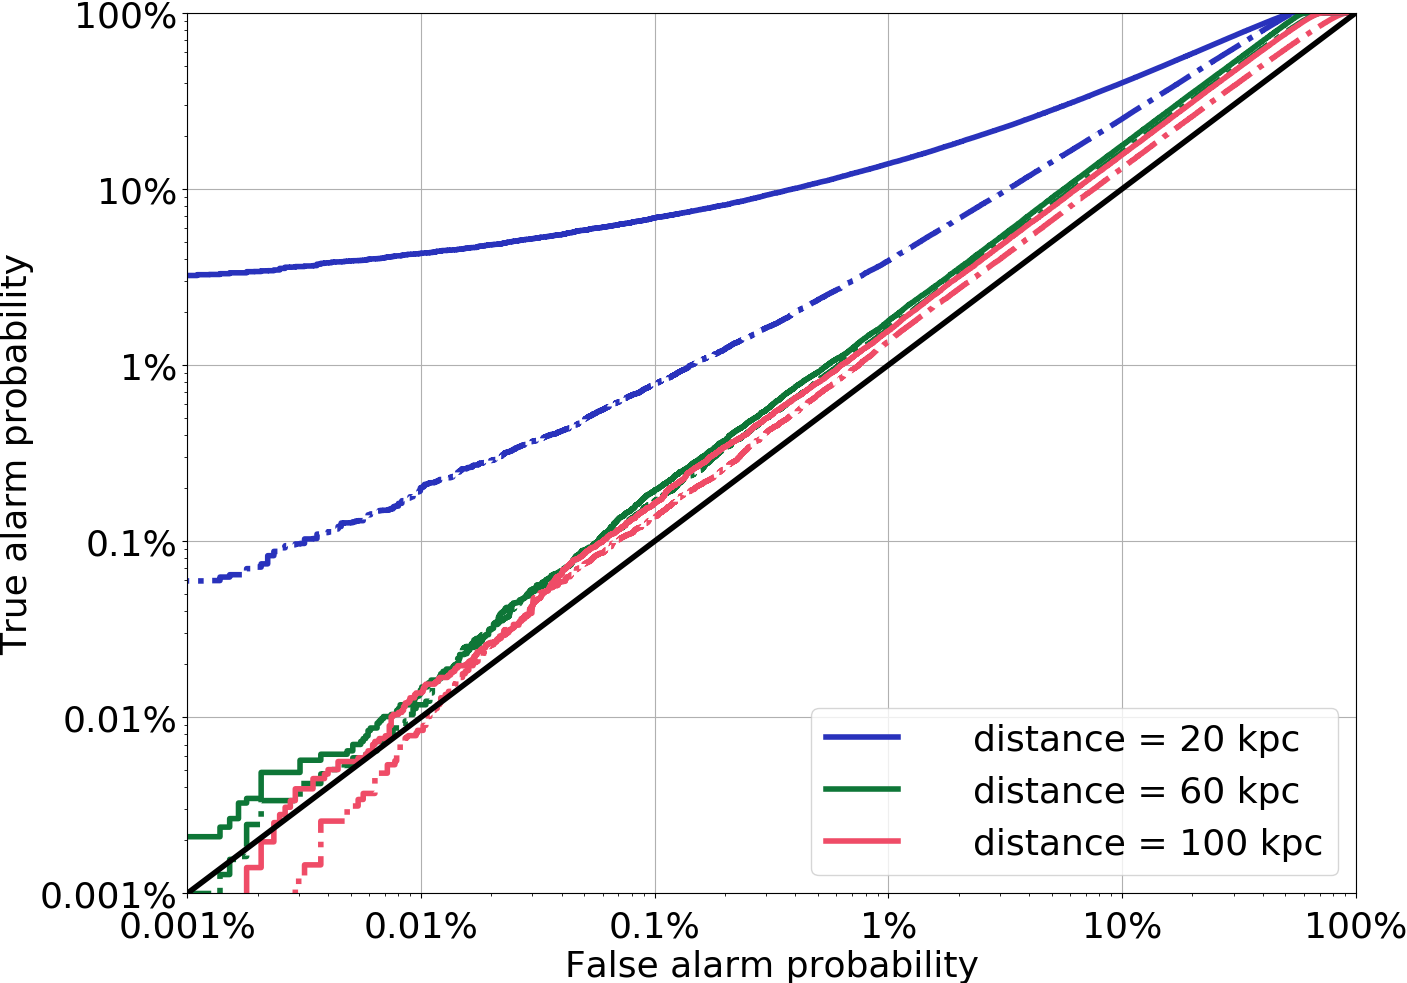
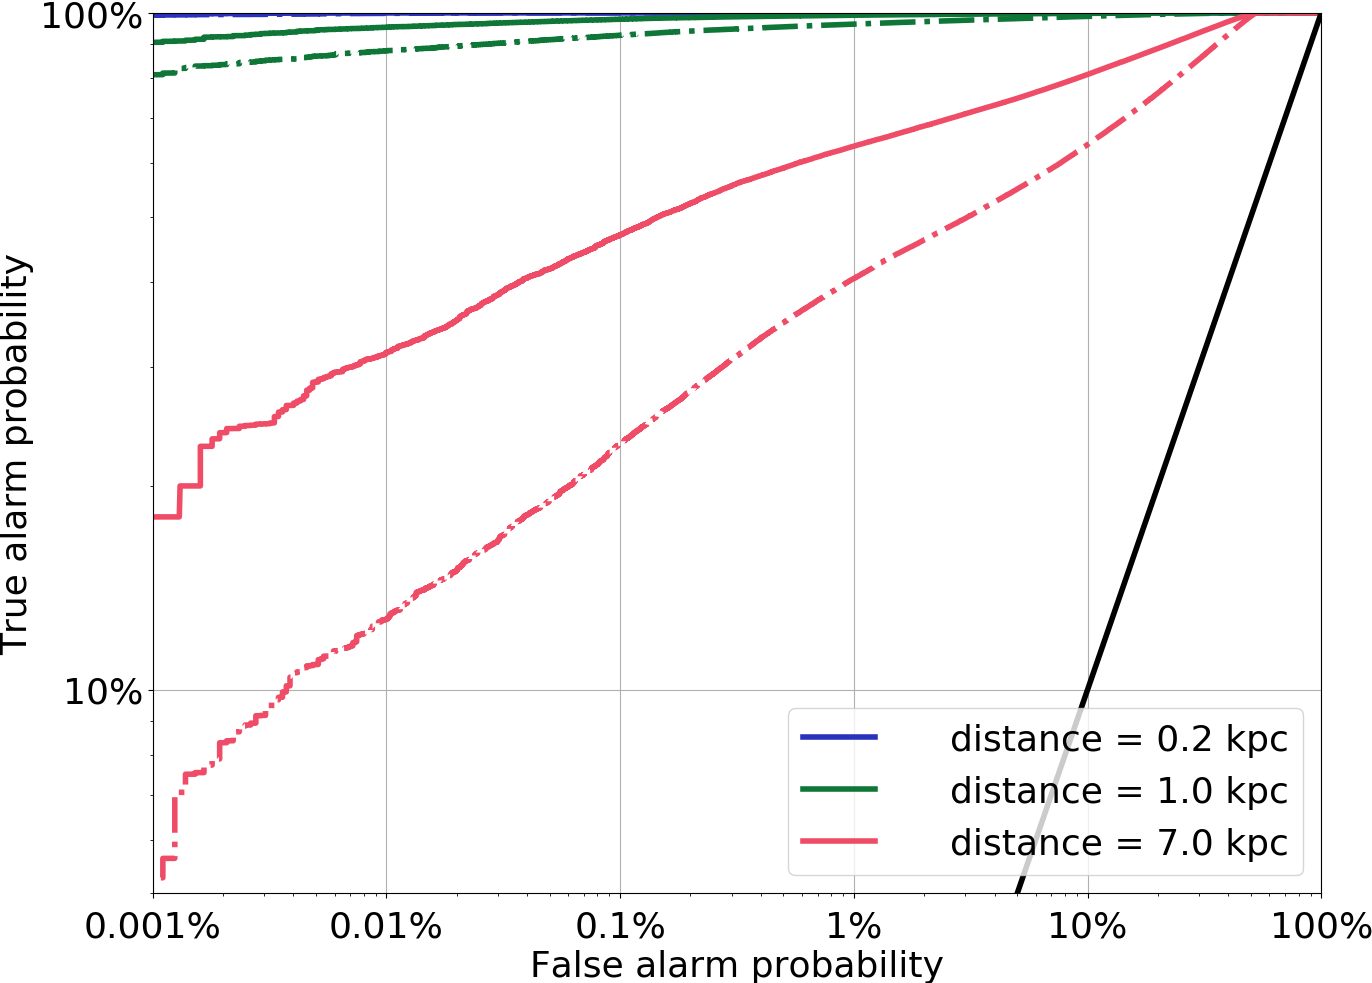
revised paper 2nd

diff --git a/main.tex b/main.tex
@@ -88,15 +88,16 @@ training of the convolutional neural network, our results suggest that a
 network of advanced LIGO, advanced VIRGO and KAGRA, or a network of LIGO A+,
 advanced VIRGO and KAGRA is likely to detect a magnetorotational core collapse
 supernovae out to the Large or even Small Magellanic Clouds. 
-%A Galactic event is likely to be detectable with a network of H+L+VK 
+A neutrino-driven event is likely to be detectable with a network of H+L+VK
+and HLVK if the distances is within $5$ kpc and $3$ kpc respectively.
 %if the explosion mechanism is the neutrino-driven mechanism.  
 By testing the convolutional neural network 
 with waveforms not used for training, we show that the true alarm probability
 is $66\%$ at $60$ kpc for waveforms $\text{R3E1AC}$ and 
-$\text{R4E1FC\_L}$ for networks of H+L+VK.  
-For waveforms $\text{s}20$ and $\text{SFHx}$ at $10$ kpc, 
-the true alarm probabilities are $49\%$ and $20\%$ for a network of H+L+VK 
-and HLVK respectively. 
+$\text{R4E1FC\_L}$ with a network of H+L+VK.  
+For waveforms $\text{s}20$ and $\text{SFHx}$,
+the true alarm probabilities are $56\%$ for H+L+VK at $7$ kpc and  $50\%$ for HLVK at $5$ kpc 
+respectively.
 All at false alarm probability equal to $0.1\%$. 
 \end{abstract}
 
@@ -159,7 +160,7 @@ reactions. The iron core is supported by the pressure of relativistic
 degenerate electrons and if the mass of the core exceeds the effective
 Chandrasekhar mass~\cite{baron1990effect, bethe1990supernova}, core collapse
 will ensue and continue until the core reaches nuclear density. The nuclear
-equation of state will then stiffens by the strong nuclear force as the core exceeds
+equation of state will then stiffen by the strong nuclear force as the core exceeds
 nuclear density and stops the core collapse. The inner core will bounce back
 and a shock wave will be sent through the infalling matter.  By losing energy
 to the dissociation of the iron nuclei and to neutrino cooling, the shock wave
@@ -247,7 +248,7 @@ recognition/processing/generation~\cite{he2016deep, krizhevsky2012imagenet,
 zhang2016colorful, karpathy2015deep}, and  language
 processing~\cite{lample2016neural}. In \ac{GW} astronomy, deep learning has
 mostly been applied to the identifications of detector noise artefacts
-(glitches)~\cite{mukund2017transient, zevin2017gravity, george2017deep} and the
+(glitches)~\cite{mukund2017transient, zevin2017gravity, george2017deep}, the
 detection of astrophysical signals~\cite{george2018deep, gabbard2018matching, astone2018new},
 and their parameter estimation~\cite{2019arXiv190906296G}.
 An advantage of the use of a \ac{CNN} in the detection
@@ -263,7 +264,7 @@ In this work, we demonstrate that a \ac{CNN} can be applied to the detection of
 \acp{GW} from \acp{CCSN} and to the classification of their explosion
 mechanisms. 
 To train our \ac{CNN}, we use simulated \ac{CCSN} waveforms from a
-number of studies and simulate sources at a range of distances from $10$ to
+number of studies and simulate sources at a range of distances from $0.2$ to
 $200$ kpc for two networks of four \ac{GW} detectors. The first network
 consists of \ac{aLIGO}, \ac{AdVirgo} and KAGRA. For the second network, we
 still include the detectors of \ac{AdVirgo} and KAGRA, but replace the two
@@ -649,7 +650,7 @@ waveforms with unexpected features, which is more likely in reality.
 %
 Since the waveforms are generated at various distances, sampling rates and
 durations, it is necessary to normalise the waveforms before they can be used
-for the generation of the time-series. To do this, we first scale the
+for the generation of the time series. To do this, we first scale the
 amplitudes of the waveforms by moving the sources to $10$ kpc from earth. We
 then ensure that the sampling rate are identical for all the waveforms by down
 sampling them to a pre-selected sampling rate of $4096$Hz. The longest duration
@@ -687,7 +688,7 @@ $h_q^\times(t)$ for these waveforms are defined as a vector of zeros.
 %
 % rescaling the amplitudes for differnet distances
 %
-In this work, we perform simulations for distances equal to $10$, $20$, $30$,
+In this work, we perform simulations for distances equal to $0.2$, $0.5$, $1$, $3$, $5$, $7$, $10$, $20$, $30$,
 $40$, $50$, $60$, $80$, $100$, $150$ and $200$ kpc. If for a training
 procedure, the default distance $d_\text{L}$ of a waveform is not $10$ kpc, the amplitude are rescaled 
 by the distance since the amplitude is inversely proportional to the distance.
@@ -695,12 +696,12 @@ by the distance since the amplitude is inversely proportional to the distance.
 %
 % Apply antenna patterns
 %
-The next step is to generate simulated time-series for the \ac{GW} detectors in
+The next step is to generate simulated time series for the \ac{GW} detectors in
 a network using $\bold{S}(t)$.
-%The input data consist of simulated time-series from a network of \ac{GW}
+%The input data consist of simulated time series from a network of \ac{GW}
 %detectors.
 Since the purpose of building a \ac{CNN} is to categorise an input data sample
-into three exclusive classes, in total three types of time-series are
+into three exclusive classes, in total three types of time series are
 generated.  For the time series containing either a magnetorotational signal or
 a neutrino-driven signal, we start by selecting a waveform $\bold{s}_q$ from
 $\bold{S}(t)$. A random location of (right ascension, declination) $=(\alpha,
@@ -779,8 +780,8 @@ where $\tau$ is defined in section \ref{sec:spwf}.
 This will avoid the possibility that the \ac{CNN}
 learns the human artefact instead of common features of the waveforms by having
 the signals always starting at the same place.
-For each time-series of the background noise class, independently simulated Gaussian
-background noise  of the
+For each time series of the background noise class, independently simulated Gaussian
+background noise of the
 same duration as that of the other classes are generated using the same power spectrum density 
 for each detector in the network. This means a data sample for this class is defined as,
 %
@@ -794,7 +795,7 @@ for each detector in the network. This means a data sample for this class is def
 As a general rule, the performance of a \ac{CNN} can always be enhanced by
 increasing the volume of training data. Therefore we augment our data set by
 iterating over $\bold{S}(t)$ until for each waveform in $\bold{S}(t)$, we have
-$31$ data samples $\bold{d}$ generated using the procedure described above.
+$310$ data samples $\bold{d}$ generated using the procedure described above.
 This step is essential for the \ac{CNN} to learn the features of the waveforms
 and to identify them effectively under different noise scenarios and starting
 times.  After that, we generate independent noise realisations for the
@@ -821,8 +822,8 @@ contains approximately $4.2\times10^{5}$ data samples.
 % the general training procedure
 %
 In Fig.~\ref{fig:sample}, we show a representative example of a pre-processed
-input time-series for a single detector. A data sample consists of such a
-time-series containing a signal from the same source or simply background noise
+input time series for a single detector. A data sample consists of such a
+time series containing a signal from the same source or simply background noise
 from all the detectors in the network. The data samples are then split into 3
 groups, with $1.0\times10^{4}$ samples being randomly selected for validation.
 Of the remainder, $1.70\times10^{5}$ for training and $1.08\times10^{6}$ for tesing. 
@@ -842,8 +843,8 @@ the paper, we will use their acronyms to refer to the networks, i.e., HLVK and H
 %
 \begin{figure}
 \includegraphics[width=0.475\textwidth]{datasample.png}
-\caption{A representative example of the simulated time-series used to
-train/validate/test the \ac{CNN}. The blue shows a whitened time-series with a
+\caption{A representative example of the simulated time series used to
+train/validate/test the \ac{CNN}. The blue shows a whitened time series with a
 signal added to Gaussian noise generated using the power spectral density of \ac{aLIGO}. 
 The red curve shows the same whitened signal free of
 noise. The optimal signal to noise ratio for this signal is $5.5$.
@@ -909,13 +910,19 @@ considered more capable than a model with a lower \ac{TAP}.
 %
 % describe ROC curve plots (Fig 5)
 %
+
+Although the \ac{CNN} has been trained for all the distances, 
+for the neutrino-driven mechanism, only results for distances $\leq 10$ kpc
+will be shown. Similarly, only results for distances $\geq 10$ kpc will be displayed 
+for the magnetorotational mechanism,. 
+This is because the intrinsic amplitudes for magnetorotational signals are
+higher than those of neutrino-driven signals and the detectable distances for the two mechanisms 
+are generally different.
 In Fig.~\ref{fig:ROClog}, we show the \acp{ROC} for both of the \ac{CCSN}
 mechanisms and \ac{GW} detector networks tested in this work. For simplicity,
-we show only the results for three distances, namely, $20$, $60$ and $100$ kpc.
-For all the distances tested, the \ac{CNN} achieves a higher \ac{TAP} for any
-given \acp{FAP} for magnetorotational than neutrino-driven signals.  That is
-not surprising as the intrinsic amplitudes for magnetorotational signals are
-higher than those of neutrino-driven signals.
+for each mechanism, we show only the results for three distances, 
+namely, $0.2$, $1$, $7$ kpc for the neutrino-driven mechanism, and 
+$20$, $60$ and $100$ kpc for the magnetorotational mechanism.
 
 \begin{figure*}
      \begin{center}
@@ -930,7 +937,9 @@ higher than those of neutrino-driven signals.
     \end{center}
     \caption{\ac{ROC} curves showing the classification performance of the
 \ac{CNN} for \ac{CCSN} signals of different explosion mechanisms at three
-distances, $20$, $60$, and $100$ kpc. The left panel shows the results for the
+distances, $0.2$, $1$ and $7$ kpc for the neutrino-driven mechanism, and $20$, $60$, 
+and $100$ kpc for the magnetorotational mechanism. 
+The left panel shows the results for the
 neutrino-driven mechanism, while the panel on the right shows those for the
 magnetorotational mechanism. In both panels, the solid lines are for the
 network H+L+VK, while the dashed lines are for HLVK. The black lines in both plots indicate 
@@ -943,11 +952,11 @@ the worst scenario where a model has zero ability in distinguishing its input.
 %
 We also show the classification efficiency of the \ac{CNN}  as a function of
 distance.  This is done by fixing the \ac{FAP} and plotting the \ac{TAP}.  The
-results for three chosen \acp{FAP} values are shown in Fig.~\ref{fig:eff}.  In
-this figure, a similar trend is seen that magnetorotational signals are easier
-for the \ac{CNN} to identify than neutrino-driven signals at a given distance.
+results for three chosen \acp{FAP} values are shown in Fig.~\ref{fig:eff}.  
+%In this figure, a similar trend is seen that magnetorotational signals are easier
+%for the \ac{CNN} to identify than neutrino-driven signals at a given distance.
 For magnetorotational signals from sources located at $50$ kpc and a \ac{FAP}
-of $0.1\%$, the \ac{CNN} achieves a \ac{TAP} of $82\%$ and $66\%$ for the
+of $0.1\%$, the \ac{CNN} obtains a \ac{TAP} of $82\%$ and $66\%$ for the
 networks H+L+VK and HLVK respectively. At more restrict \acp{FAP} such as
 $0.001\%$, the \ac{CNN} still achieves \acp{TAP} of $72\%$ and $55\%$ for sources at
 the same distance for the two networks respectively.  For sources that are
@@ -961,12 +970,19 @@ the \ac{FAP} is $0.1\%$. These numbers indicate that with
 such a \ac{GW} network, it is possible to detect magnetorotational \ac{CCSN}
 signals out to such a distance. For sources at $100$, $150$ and $200$ kpc, the \acp{TAP}
 drop to $55\%$, $33\%$ and $16\%$ respectively for \ac{FAP} equal to $0.1\%$.
-On the other hand, it is more difficult for the
-\ac{CNN} to detect and classify the neutrino-driven signals, due to their
-weaker amplitudes. For example, for sources at $10$ kpc, the \ac{CNN} achieves
-a \ac{TAP} of $38\%$ and $10\%$ for H+L+VK and HLVK respectively if the
-\ac{FAP} is $0.1\%$. In Fig.~\ref{fig:eff}, only the values of \ac{TAP} that
-are larger than zero will be plotted.
+On the other hand, it is more difficult for the CNN to detect and classify the
+neutrino-driven signals, due to their weaker amplitudes.
+Nonetheless, the \ac{CNN} obtains a \ac{TAP} of $90\%$ and $75\%$ for sources 
+at $3.0$ kpc at a \ac{FAP} of $0.1\%$ with
+a network of H+L+VK and HLVK respectively.
+The \ac{TAP} drops to  $67\%$ for H+L+VK at $5$ kpc.
+%it is more difficult for the
+%\ac{CNN} to detect and classify the neutrino-driven signals, due to their
+%weaker amplitudes. 
+%For example, for sources at $10$ kpc, the \ac{CNN} achieves
+%a \ac{TAP} of $38\%$ and $10\%$ for H+L+VK and HLVK respectively if the
+%\ac{FAP} is $0.1\%$. In Fig.~\ref{fig:eff}, only the values of \ac{TAP} that
+%are larger than zero will be plotted.
 
 %
 % the TAP as a function of distance
@@ -986,10 +1002,7 @@ are larger than zero will be plotted.
 \ac{CNN} as a function of distance for both mechanisms and networks.  The left
 panel shows the results for the neutrino-driven mechanism, while the right
 shows those for the magnetorotational mechanism. 
-At a certain value of \ac{FAP} and a distance, the value of \ac{TAP}
-will be plotted only if it is not zero.
-In both panels, the solid
-lines show the results for the network H+L+VK, and the dashed lines for HLVK.
+In both panels, the solid lines show the results for the network H+L+VK, and the dashed lines for HLVK.
 Three \acp{FAP} values are chosen, blue for \ac{FAP} $=1\%$, green for \ac{FAP}
 $=0.1\%$, red for \ac{FAP} $=0.01\%$.\label{fig:eff}}
 \end{figure*}
@@ -1012,11 +1025,8 @@ $=0.1\%$, red for \ac{FAP} $=0.01\%$.\label{fig:eff}}
 distinguishing input data with a fixed decision threshold $(90\%)$, 
 and their corresponding \acp{FAP} and \acp{TAP}. 
 The left panel shows the results for the neutrino-driven mechanism.
-Since for the neutrino-driven mechanism, the value of \ac{TAP} decreases to zero rapidly
-as distance increases, only the distances at which the corresponding \acp{TAP} are not zero are plotted.
-In the plot, stars are for the network H+L+VK, and the dots are for the network HLVK.
 The right panel shows the results for the magnetorotational mechanism. 
-In the right panel, the solid lines show the \acp{TAP} and \acp{FAP} 
+In both panels, the solid lines show the \acp{TAP} and \acp{FAP} 
 for the network H+L+VK, and the
 dashed lines show those for HLVK.\label{fig:ROCfixed}}
 \end{figure*}
@@ -1029,7 +1039,8 @@ corresponding probability is larger than the pre-selected threshold probability.
 scenario, the \ac{FAP} and \ac{TAP} would be affected by the choice of the
 threshold. We show such a result in Fig.~\ref{fig:ROCfixed}, where we employed
 a threshold probability of $90\%$. 
-This value is chosen so that low values of \ac{FAP} can be maintained throughout all tested distances
+This value is chosen so that low values of \ac{FAP} can be maintained throughout all 
+tested distances
 as illustrated by the right y-axes of the figures.
 %because for lower values, 
 %there could be more than a class with predicted probabilities from the \ac{CNN} 
@@ -1040,20 +1051,35 @@ If the distance is extended to $100$ kpc, the \ac{TAP} is still larger than $50\
 For HLVK, the \ac{TAP} is $96\%$ for sources at $10$ kpc and drops to $56\%$ at
 $60$ kpc.
 %The \acp{TAP} decrease to $10\%$ and $9\%$ for sources at $150$ and $200$ kpc.
-For all distances, the \ac{CNN} maintains a \ac{FAP} no larger than $0.3\%$ for
-both networks regarding magnetorotational waveforms. For neutrino-driven
-signals, we show that H+L+VK has a \acp{TAP} of $44\%$ at $10$ kpc while it
-is $11\%$ at $10$ kpc for HLVK with \acp{FAP} $< 0.3\%$.
-As we have chosen a large value of threshold, the values of \ac{TAP} decreases rapidly 
-as the distance increases. Again, only the values of \ac{TAP} larger than zero will be plotted.
+For neutrino-driven
+signals, we show that H+L+VK achieves a \ac{TAP} of $90\%$ for sources at $3$ kpc 
+and still $50\%$ at $7$ kpc. 
+For HLVK, the \ac{TAP} for $3$ kpc are $78\%$.
+For both mechanisms, the \ac{CNN} maintains a \ac{FAP} no larger than $0.3\%$ for
+the displayed distances. 
 
-It should be noted that the results presented in this section are
+
+Although the waveforms used in different studies in the literatures 
+are not entirely identical and that the statistics used are not always directly comparable,
+by comparing the results obtained from the \ac{CNN} with those existing in the literature
+such as \cite{astone2018new, gill2018enhancing, hayama2015coherent, roma2019astrophysics}, 
+our \ac{CNN} has demonstrated a detection and classification efficiency that is at least consistent 
+or in some cases more promising for both mechanisms.
+In addition, it should be noted that the results presented in this section are
 averaged over all the data samples in the testing samples. The performance on
 any individual waveform may vary depending on the morphology and the amplitudes
 of the waveform. 
-In addition, if an accurate time window and/or localisation of en event are available
-(e.g. with electromagnetic and/or neutrino observations), 
+Further, if an accurate time window and/or localisation 
+of en event are available (e.g. with electromagnetic and/or neutrino observations), 
 such low values of \ac{FAP} may not be necessary. 
+Finally, as mentioned, the magnetorotational waveforms
+used in this study are linearly polarised and only have the $h_{+}$ polarisation. 
+This could potentially cause the \ac{CNN} to perform differently in reality. 
+This problem can be solved by training the \ac{CNN} 
+using $3$D simulated waveforms when a larger number of them become available. 
+
+
+
 %Also shown in this figure is a curve showing the \ac{TAP} for all the classes, defined by,
 %\begin{equation}\label{eq:TAPforall}
 %\text{TAP}_{\text{all}} = \frac{\text{No. of correctly identified test input}}{\text{No. of test input}}.
@@ -1154,9 +1180,10 @@ with H+L+VK. This indicates that with the
 distances consistent with the Large and Small Magellanic Clouds.
 For HLVK and a distance of $40$ kpc, a \ac{TAP} of $54\%$ is achieved, showing the possibility of detecting 
 these waveforms out to the satellite galaxies within such a distance.
-For waveforms $\text{s}20$ and $\text{SFHx}$, the \acp{TAP} are $49\%$ and $20\%$ for the two
-networks if the sources are at $10$ kpc and the \ac{FAP} is $0.1\%$.  The
-efficiency for the waveforms $\text{s}20$ and $\text{SFHx}$ is noticeably
+For waveforms $\text{s}20$ and $\text{SFHx}$ and a \ac{FAP} of $0.1\%$, 
+the \acp{TAP} for H+L+VK are $91\%$ and $56\%$ for $3$ and $7$ kpc respectively.
+For HLVK, the \acp{TAP} is $79\%$ and $50\%$ at $3$ and $5$ kpc.
+The efficiency for the waveforms $\text{s}20$ and $\text{SFHx}$ is noticeably
 higher than that for the neutrino-driven mechanism in Fig.~\ref{fig:eff} for
 the same distance. This is because as mentioned before, the detection and
 classification efficiency in Fig.~\ref{fig:eff} are the results averaged over
@@ -1169,32 +1196,35 @@ the \ac{CNN} to detect.
 % overall main message
 %
 We have demonstrated that a \ac{CNN} can be applied for the purpose of
-distinguishing \ac{GW} detector time-series among pure background noise and
+distinguishing \ac{GW} detector time series among pure background noise and
 \ac{CCSN} explosion mechanisms. We have trained, valided, and tested 
 the \ac{CNN} using $1.26\times10^{6}$ samples of simulated time series for each distance at a
-number of distances from $10$ kpc to $200$ kpc. The data samples for each
-class consisted of approximately $4.2\times10^5$ samples. 
-
+number of distances from $0.2$ kpc to $200$ kpc, where the background noise is Gaussian noise. 
+The data samples for each class consisted of approximately $4.2\times10^5$ samples. 
+Our results have been shown to be at least consistent with or in some situations may even be 
+more promising than the results in the literature.
 %
 % Primary magneto results
 %
+
 We have shown that with a \ac{GW} detector network of HLVK, when the \ac{FAP}
 was $0.1\%$, once trained, a \ac{CNN} could achieve a \ac{TAP} of $54\%$
 for magnetorotational signals from sources at $60$ kpc. Using a network of
 H+L+VK, we showed that the \ac{TAP} is $77\%$.  Both the Large and
 Small Magellanic Clouds are within this distance. If the distance is extended
-to $150$ or $200$ kpc, a \ac{TAP} of $33\%$ or $16\%$ respectively are still
+to $150$ or $200$ kpc, a \ac{TAP} of $33\%$ or $16\%$ respectively are
 achievable for H+L+VK, indicating a small possibility of detections within
 such distances. 
 %
 % not so good neutrino results
 %
-For the neutrino-driven mechanism, the weaker amplitudes of the waveforms
-result in lower \acp{TAP} at the same distances.  For sources at $10$ kpc, the
-trained \ac{CNN}, with a \ac{FAP} of $0.1\%$, achieved a \ac{TAP} of $10\%$ and
-$38\%$ for HLVK and H+L+VK respectively. 
+
+For the neutrino-driven mechanism, with a network of HLVK or H+L+VK, 
+a \ac{TAP} of $75\%$ or $90\%$ respectively was shown for sources at $3$ kpc. 
+The \acp{TAP} drop to $67\%$ for H+L+VK for sources at $5$ kpc. 
+The closer detectable distances are a results of the intrinsic weaker amplitudes of the signals.
 %
-% statement about out of treaining data extra test samples
+% statement about out of training data extra test samples
 %
 
 We used four waveforms that were not used for the training of the \ac{CNN} to
@@ -1202,8 +1232,8 @@ test the performance of the \ac{CNN} in a more realistic situation. We found
 that for waveforms $\text{R3E1AC}$ and $\text{R4E1FC\_L}$ from sources at
 $60$ kpc, the \ac{TAP} is $66\%$ for H+L+VK.
 For HLVK and sources at $40$ kpc, the \ac{TAP} is $54\%$.
-For waveforms $\text{s}20$ and $\text{SFHx}$ at $10$ kpc, the \acp{TAP} are $49\%$ and
-$20\%$ for the two networks respectively. All at \ac{FAP} of $0.1\%$. 
+For waveforms $\text{s}20$ and $\text{SFHx}$, the \acp{TAP} are $50\%$ for HLVK at $5$ kpc 
+and $56\%$ for H+L+VK at $7$ kpc. All at \ac{FAP} of $0.1\%$. 
 The results prove the possibility of
 using a \ac{CNN} as a tool for the detection and classification of \ac{CCSN}
 \ac{GW} signals.
@@ -1233,7 +1263,7 @@ thorough and constructive comments on the paper.
 I.S.H. and C.M. are supported by the Science and Technology Research Council
 (grant No.~ST/L000946/1) and the European Cooperation in Science and
 Technology (COST) action CA17137. 
-
+\clearpage 
 \bibliography{main}
 %\input{main.bbl}
 
